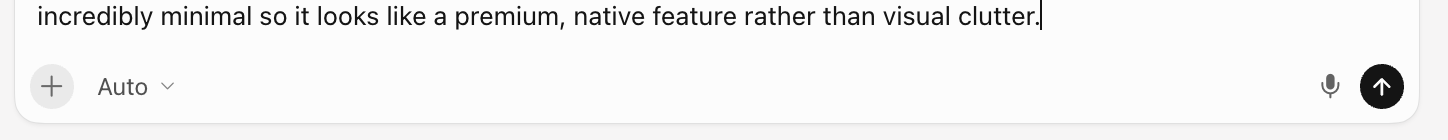
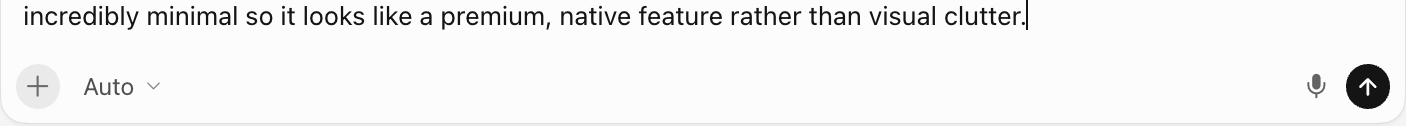
Gallery-box edits

Changed region(s): [[0.0, 0.0, 0.734, 0.2143], [0.8869, 0.4524, 1.0, 0.881], [0.0, 0.5714, 0.1223, 0.7619]]

diff --git a/bibliocat/index.html b/bibliocat/index.html
@@ -781,32 +781,28 @@
     }
 
     .theme-gallery--compact .theme-gallery__viewport {
-      max-width: 84%;
-      margin-inline: auto;
+      max-width: none;
+      width: 100%;
+      margin-inline: 0;
     }
 
     .theme-gallery--compact .theme-gallery__slide {
       aspect-ratio: 16 / 9;
       overflow: hidden;
+      background: var(--color-ink-900);
     }
 
     .theme-gallery--compact .theme-gallery__slide img {
       width: 100%;
       height: 100%;
       object-fit: contain;
+      object-position: center center;
     }
 
     @media (min-width: 768px) {
-      .theme-gallery--compact .theme-gallery__slide {
-        background: var(--color-ink-900);
-      }
-
-      /* Trim subpixel slide peek and screenshot edge padding on desktop */
+      /* Slight scale avoids subpixel neighbor-slide peek without cropping content */
       .theme-gallery--compact .theme-gallery__slide img {
-        width: calc(100% + 8px);
-        max-width: none;
-        margin-left: -4px;
-        object-position: center center;
+        transform: scale(1.01);
       }
     }
 